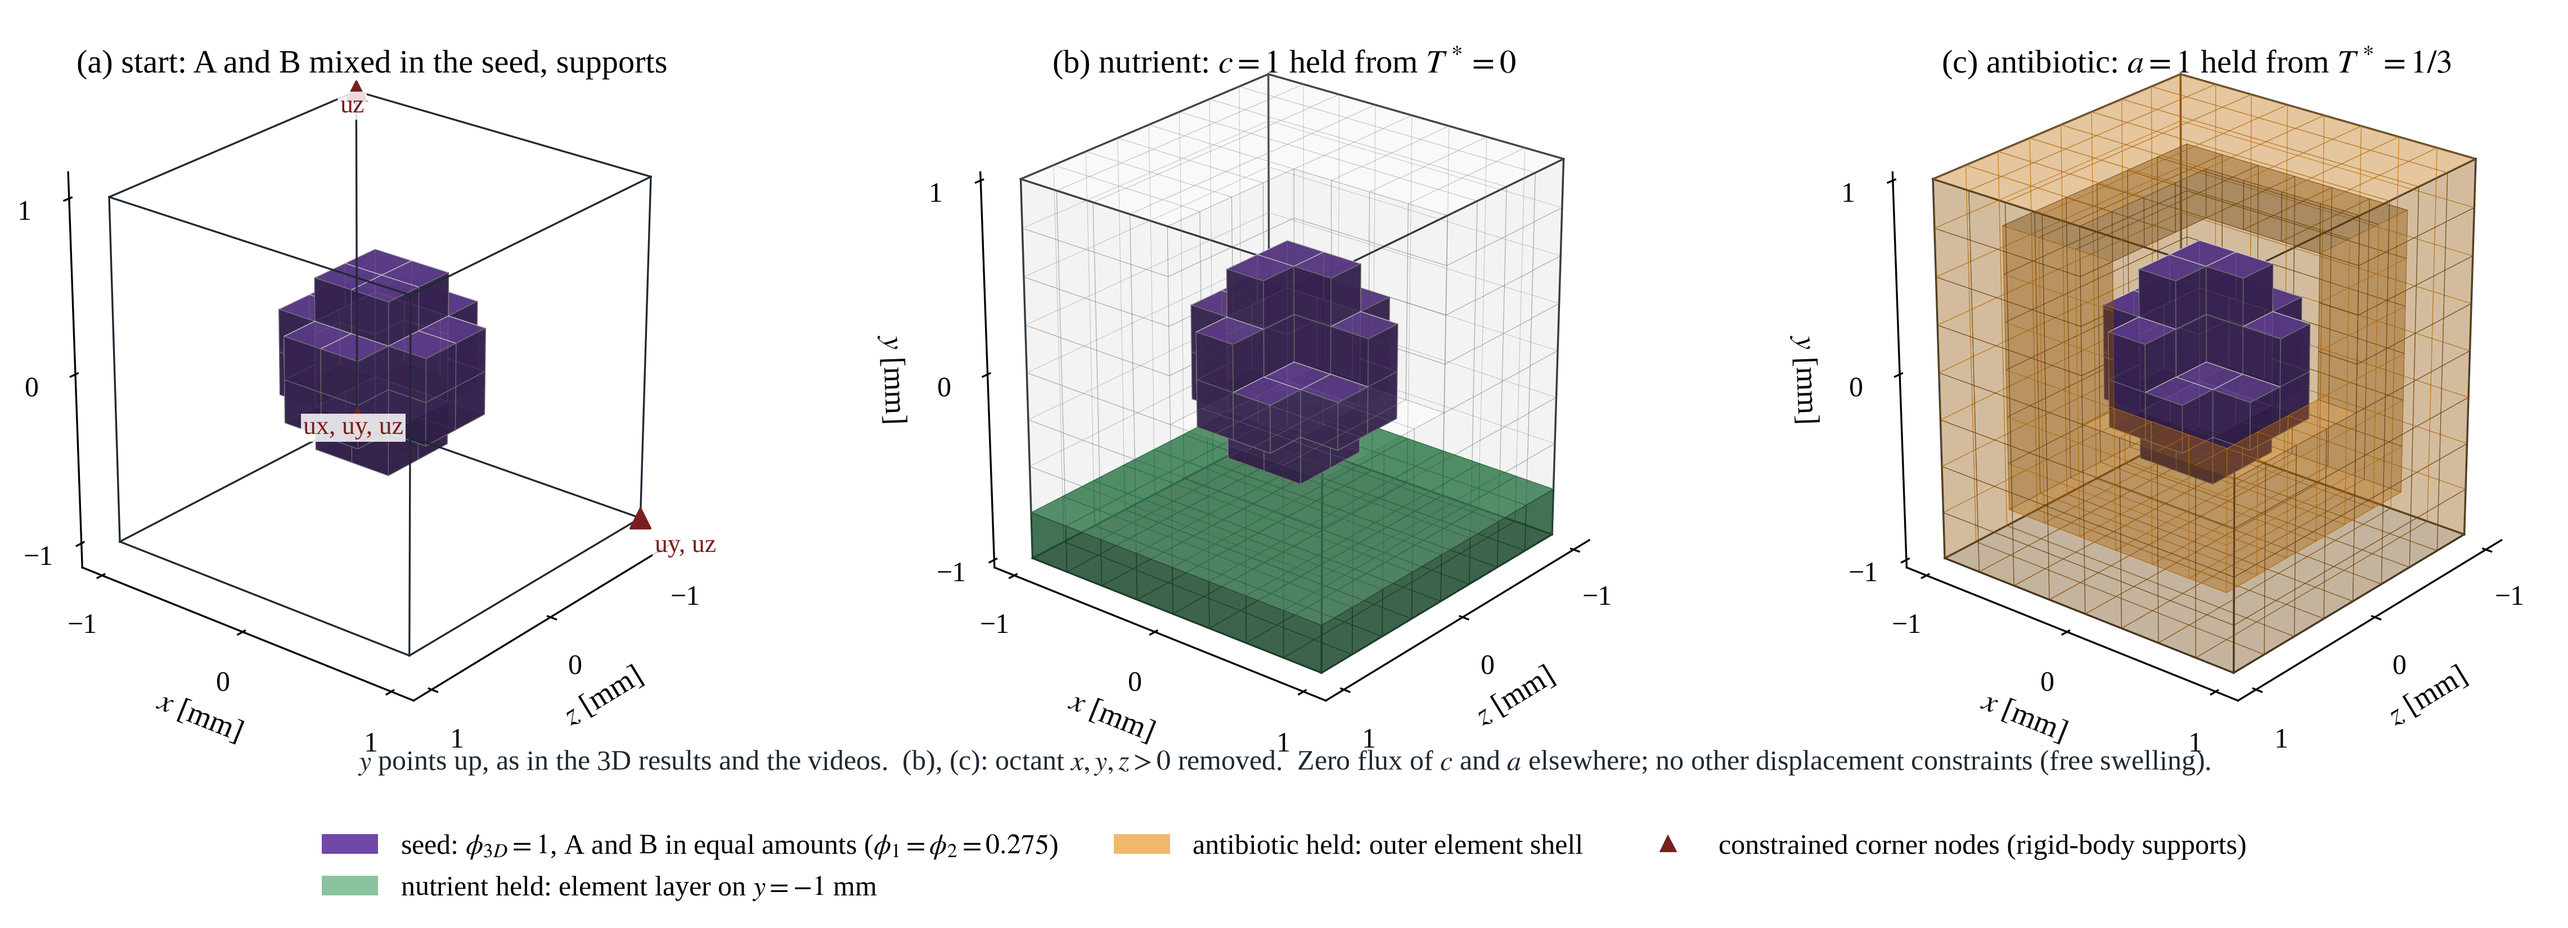
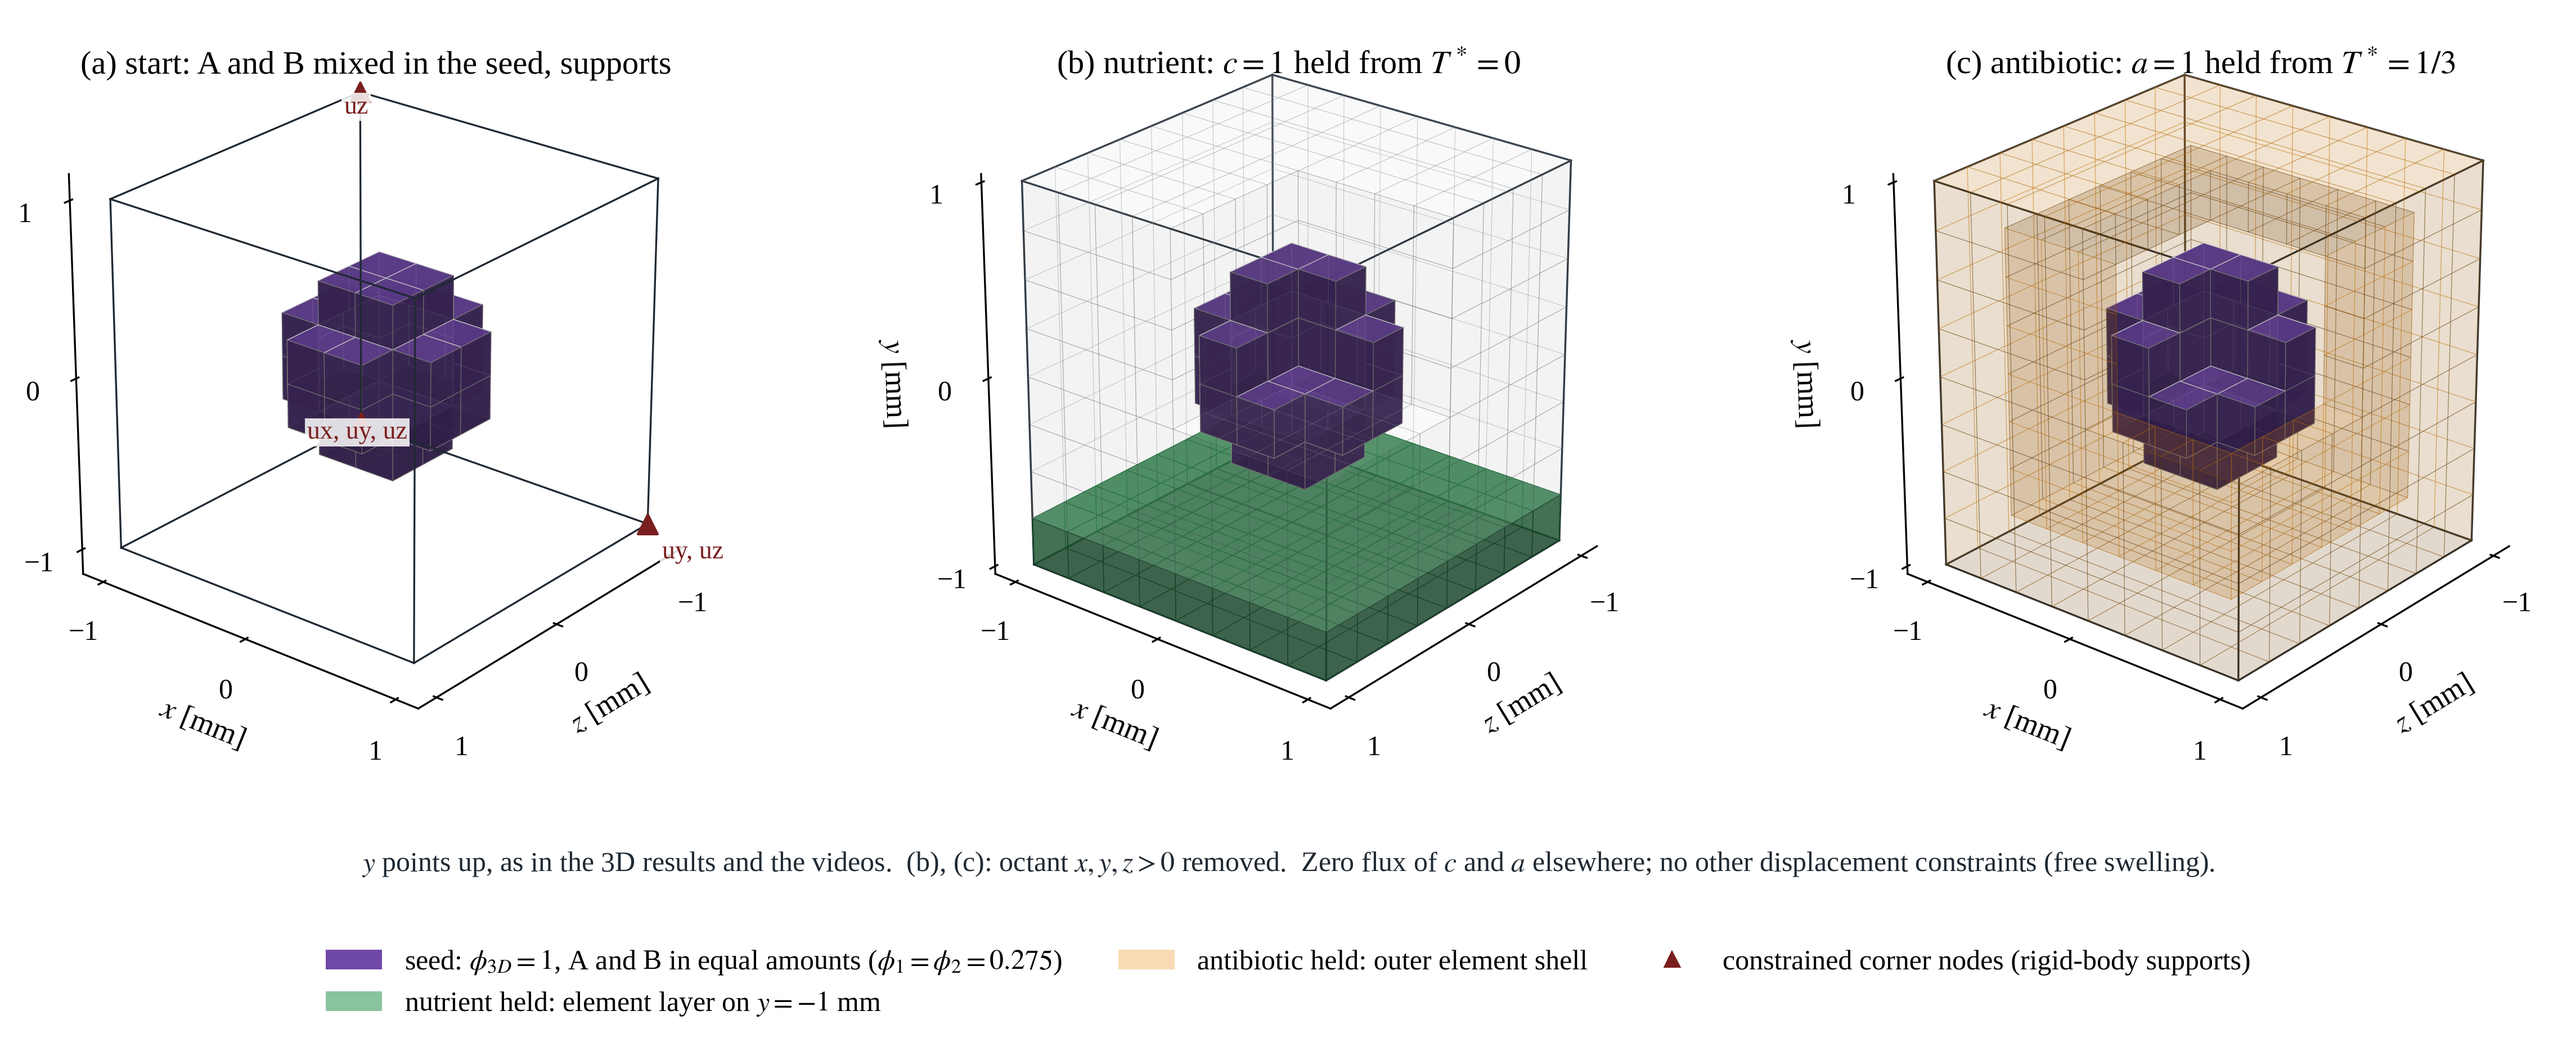
Set-up figure: more space between note and legend, lighter antibiotic shell

diff --git a/ansys_usermat/apdl/fig_setup_separate_ab.py b/ansys_usermat/apdl/fig_setup_separate_ab.py
@@ -70,7 +70,7 @@ def main():
     seed, nut, spb, shell, front, spb_back, spb_near = (P(v) for v in (seed, nut, spb, shell, front, spb_back, spb_near))
     X, Y, Z = P(Z), P(X), P(Y)                       # plot coordinates
 
-    fig = plt.figure(figsize=(16.5, 5.9))
+    fig = plt.figure(figsize=(16.5, 6.6))
     titles = ("(a) start: A and B mixed in the seed, supports" if MIXED else "(a) start: species A and B, supports",
               "(b) nutrient: $c = 1$ held from $T^* = 0$",
               "(c) antibiotic: $a = 1$ held from $T^* = 1/3$")
@@ -95,11 +95,11 @@ def main():
             ax.voxels(X, Y, Z, nut & ~front, facecolors=NUTR + "99", edgecolors=NUTR, linewidth=0.3)
             ax.voxels(X, Y, Z, seed & ~front, facecolors=seedc + "dd", edgecolors="white", linewidth=0.3)
         else:
-            ax.voxels(X, Y, Z, shell & ~front, facecolors=AB + "38", edgecolors=AB + "aa", linewidth=0.25)
+            ax.voxels(X, Y, Z, shell & ~front, facecolors=AB + "1a", edgecolors=AB + "66", linewidth=0.25)
             ax.voxels(X, Y, Z, seed & ~front, facecolors=seedc + "dd", edgecolors="white", linewidth=0.3)
         ax.set_title(titles[p], fontsize=14, y=0.97)
     handles = [plt.Rectangle((0, 0), 1, 1, fc=seedc), plt.Rectangle((0, 0), 1, 1, fc=SPB),
-               plt.Rectangle((0, 0), 1, 1, fc=NUTR, alpha=0.6), plt.Rectangle((0, 0), 1, 1, fc=AB, alpha=0.6),
+               plt.Rectangle((0, 0), 1, 1, fc=NUTR, alpha=0.6), plt.Rectangle((0, 0), 1, 1, fc=AB, alpha=0.3),
                plt.Line2D([], [], marker="^", ls="", color=FIX)]
     labels = ["species A: seed, $\\phi_{3D} = 1$ at the start",
               "species B: four blocks along the edges parallel to $z$",
@@ -109,10 +109,10 @@ def main():
     if MIXED:                                         # no edge blocks: one seed entry instead of A and B
         handles.pop(1)
         labels[:2] = ["seed: $\\phi_{3D} = 1$, A and B in equal amounts ($\\phi_1 = \\phi_2 = 0.275$)"]
-    fig.legend(handles, labels, loc="lower center", ncol=3, fontsize=12, frameon=False)
-    fig.text(0.5, 0.165, "$y$ points up, as in the 3D results and the videos.  (b), (c): octant $x, y, z > 0$ removed.  Zero flux of $c$ and $a$ elsewhere; "
+    fig.legend(handles, labels, loc="lower center", bbox_to_anchor=(0.5, 0.0), ncol=3, fontsize=12, frameon=False)
+    fig.text(0.5, 0.155, "$y$ points up, as in the 3D results and the videos.  (b), (c): octant $x, y, z > 0$ removed.  Zero flux of $c$ and $a$ elsewhere; "
              "no other displacement constraints (free swelling).", ha="center", fontsize=12, color=INK)
-    fig.subplots_adjust(left=0.0, right=1.0, top=0.93, bottom=0.2, wspace=-0.05)
+    fig.subplots_adjust(left=0.0, right=1.0, top=0.93, bottom=0.27, wspace=-0.05)
     fig.savefig(OUT, dpi=300, bbox_inches="tight", pad_inches=0.05)
     fig.savefig(OUT.with_suffix(".pdf"), bbox_inches="tight", pad_inches=0.05)
     print("wrote", OUT, "| seed", int(seed.sum()), "| B", int(spb.sum()), "| nutrient", int(nut.sum()),
